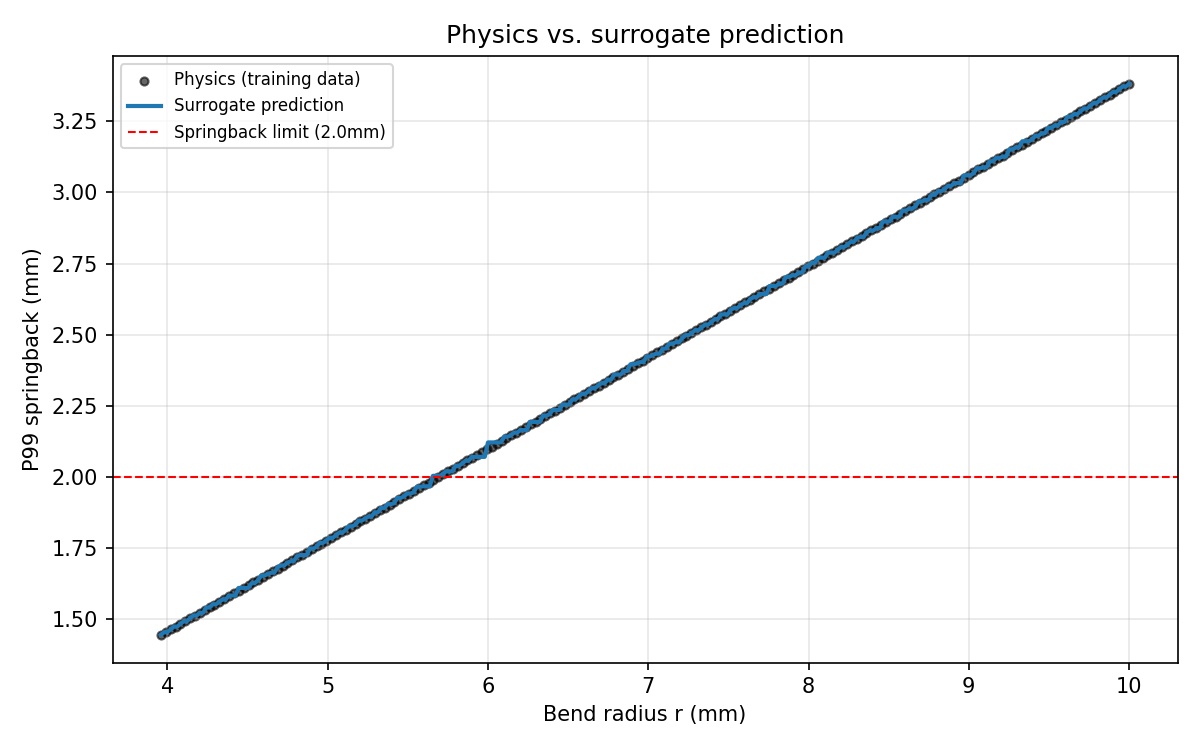
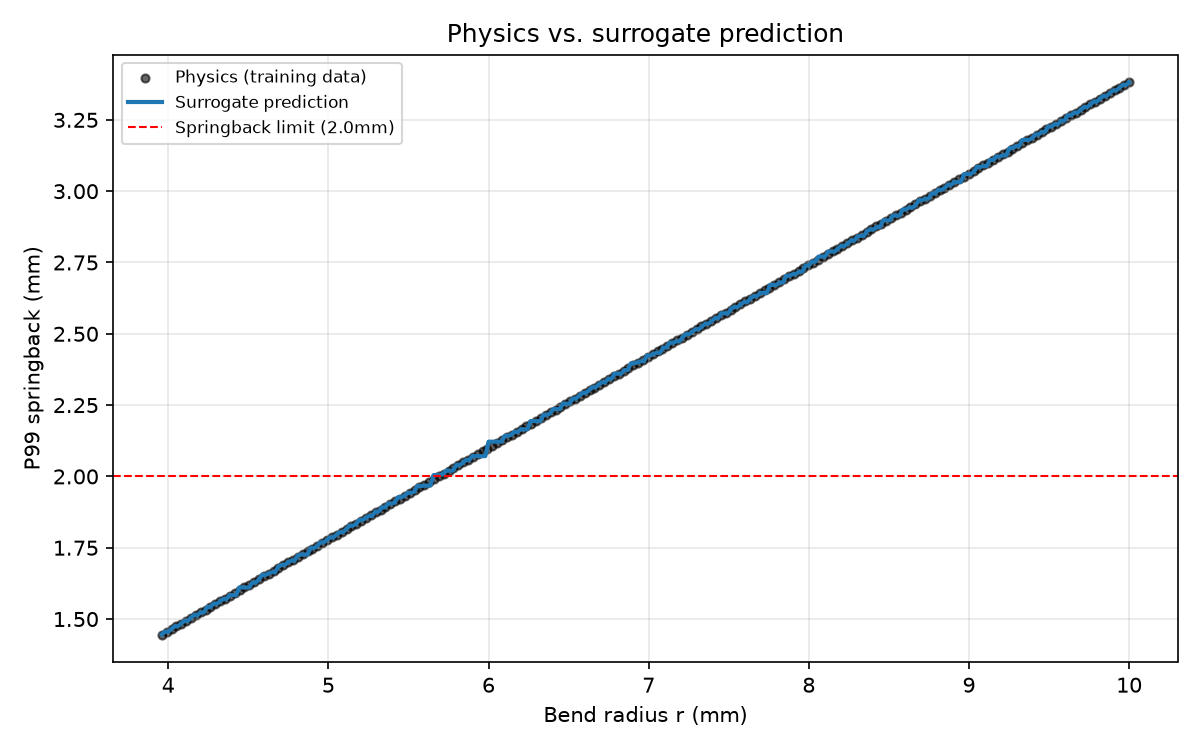
run_demo with correct parsed args

diff --git a/run_demo.py b/run_demo.py
@@ -36,10 +36,16 @@ from domain import get_evaluator
 from physics import bend_model as bm
 from search.search_loop import RadiusSearchLog, SearchConfig, bisection_search
 
+# DEFAULT_REQUIREMENT = (
+#     "Find the maximum bend radius that keeps springback under 2mm, "
+#     "accounting for plus or minus 10 percent thickness variation and "
+#     "plus or minus 5 percent yield strength variation. The flange "
+#     "length must not change."
+# )
 DEFAULT_REQUIREMENT = (
-    "Find the maximum bend radius that keeps springback under 2mm, "
-    "accounting for plus or minus 10 percent thickness variation and "
-    "plus or minus 5 percent yield strength variation. The flange "
+    "Find the maximum bend radius that keeps springback under 3.5mm, "
+    "accounting for plus or minus 20 percent thickness variation and "
+    "plus or minus 10 percent yield strength variation. The flange "
     "length must not change."
 )
 
@@ -69,8 +75,11 @@ def try_parse_intent(requirement_text: str):
             frozen_features=["flange_length"],
         )
 
-
-def try_explain_result(search_result: dict, final_evaluation: dict) -> str:
+def try_explain_result(
+    search_result: dict,
+    final_evaluation: dict,
+    springback_limit_mm: float,
+    ) -> str:
     """
     Attempts the LLM back edge. Falls back to a templated (non-LLM)
     summary if unreachable -- same honesty-about-fallback pattern as
@@ -89,7 +98,8 @@ def try_explain_result(search_result: dict, final_evaluation: dict) -> str:
         return (
             f"[templated fallback] The maximum feasible bend radius is "
             f"{r:.3f}mm, where worst-case (P99) springback reaches "
-            f"{p99:.3f}mm -- right at the 2.0mm limit. This is the largest "
+            # f"{p99:.3f}mm -- right at the 2.0mm limit. This is the largest "
+            f"{p99:.3f}mm -- right at the {springback_limit_mm:.1f}mm limit."
             f"radius the die can use (easier tooling, less wear, lower "
             f"force) before springback exceeds spec across the expected "
             f"material scatter."
@@ -112,7 +122,16 @@ def run_demo(requirement_text: str, output_dir: Path = Path("outputs")):
     r_floor = bm.crack_floor(t_nom=spec.thickness_nominal_mm,
                               t_tol=spec.thickness_tolerance_pct / 100)
     config = SearchConfig(r_lo=r_floor, r_hi=10.0, tolerance_mm=0.05, max_iterations=30)
-    evaluator = get_evaluator(mode="physics", n_samples=500, seed=42)
+    # evaluator = get_evaluator(mode="physics", n_samples=500, seed=42)
+    evaluator = get_evaluator(
+        mode="physics",
+        n_samples=500,
+        seed=42,
+        thickness_nominal_mm=spec.thickness_nominal_mm,
+        springback_limit_mm=spec.springback_limit_mm,
+        thickness_tol=spec.thickness_tolerance_pct / 100,
+        yield_tol=spec.yield_strength_tolerance_pct / 100,
+    )
 
     log_path = output_dir / "logs" / "demo_run.jsonl"
     log = RadiusSearchLog(log_path)
@@ -140,7 +159,12 @@ def run_demo(requirement_text: str, output_dir: Path = Path("outputs")):
 
     # 4. Explain the result (LLM back edge, with fallback).
     final_eval_dict = final_eval.as_log_dict(DesignParameters(r_bend=r_final))
-    explanation = try_explain_result(search_result, final_eval_dict)
+    # explanation = try_explain_result(search_result, final_eval_dict)
+    explanation = try_explain_result(
+        search_result,
+        final_eval_dict,
+        spec.springback_limit_mm,
+    )
     print()
     print("-" * 70)
     print("EXPLANATION")

diff --git a/domain.py b/domain.py
@@ -70,24 +70,39 @@ class PhysicsEvaluator:
     single call is slow.
     """
 
-    def __init__(self, n_samples: int = 500, seed: int | None = None):
+    def __init__(
+        self,
+        n_samples: int = 500,
+        seed: int | None = None,
+        thickness_nominal_mm: float = bm.T_NOM,
+        springback_limit_mm: float = SPRINGBACK_LIMIT_MM,
+        thickness_tol: float = THICKNESS_TOL,
+        yield_tol: float = YIELD_TOL,
+    ):
         self.n_samples = n_samples
         self.seed = seed
+        self.thickness_nominal_mm = thickness_nominal_mm
+        self.springback_limit_mm = springback_limit_mm
+        self.thickness_tol = thickness_tol
+        self.yield_tol = yield_tol
 
     def evaluate(self, params: DesignParameters) -> EvaluationResult:
         t0 = time.perf_counter()
 
-        r_floor = bm.crack_floor(t_nom=bm.T_NOM, t_tol=THICKNESS_TOL)
+        r_floor = bm.crack_floor(
+            t_nom=self.thickness_nominal_mm,
+            t_tol=self.thickness_tol,
+        )
         crack_ok = params.r_bend >= r_floor
 
         mc = bm.monte_carlo_p99_springback(
             params.r_bend,
             n_samples=self.n_samples,
-            t_tol=THICKNESS_TOL,
-            sy_tol=YIELD_TOL,
+            t_tol=self.thickness_tol,
+            sy_tol=self.yield_tol,
             seed=self.seed,
         )
-        springback_ok = mc["p99"] <= SPRINGBACK_LIMIT_MM
+        springback_ok = mc["p99"] <= self.springback_limit_mm
 
         runtime = time.perf_counter() - t0
 

diff --git a/README.md b/README.md
@@ -69,6 +69,9 @@ python plots/make_plots.py
 Test the LLM connection:
 python llm/client.py
 
+### 5. Run the complete end-to-end demo
+python run_demo.py
+
 
 
 ## Architecture
